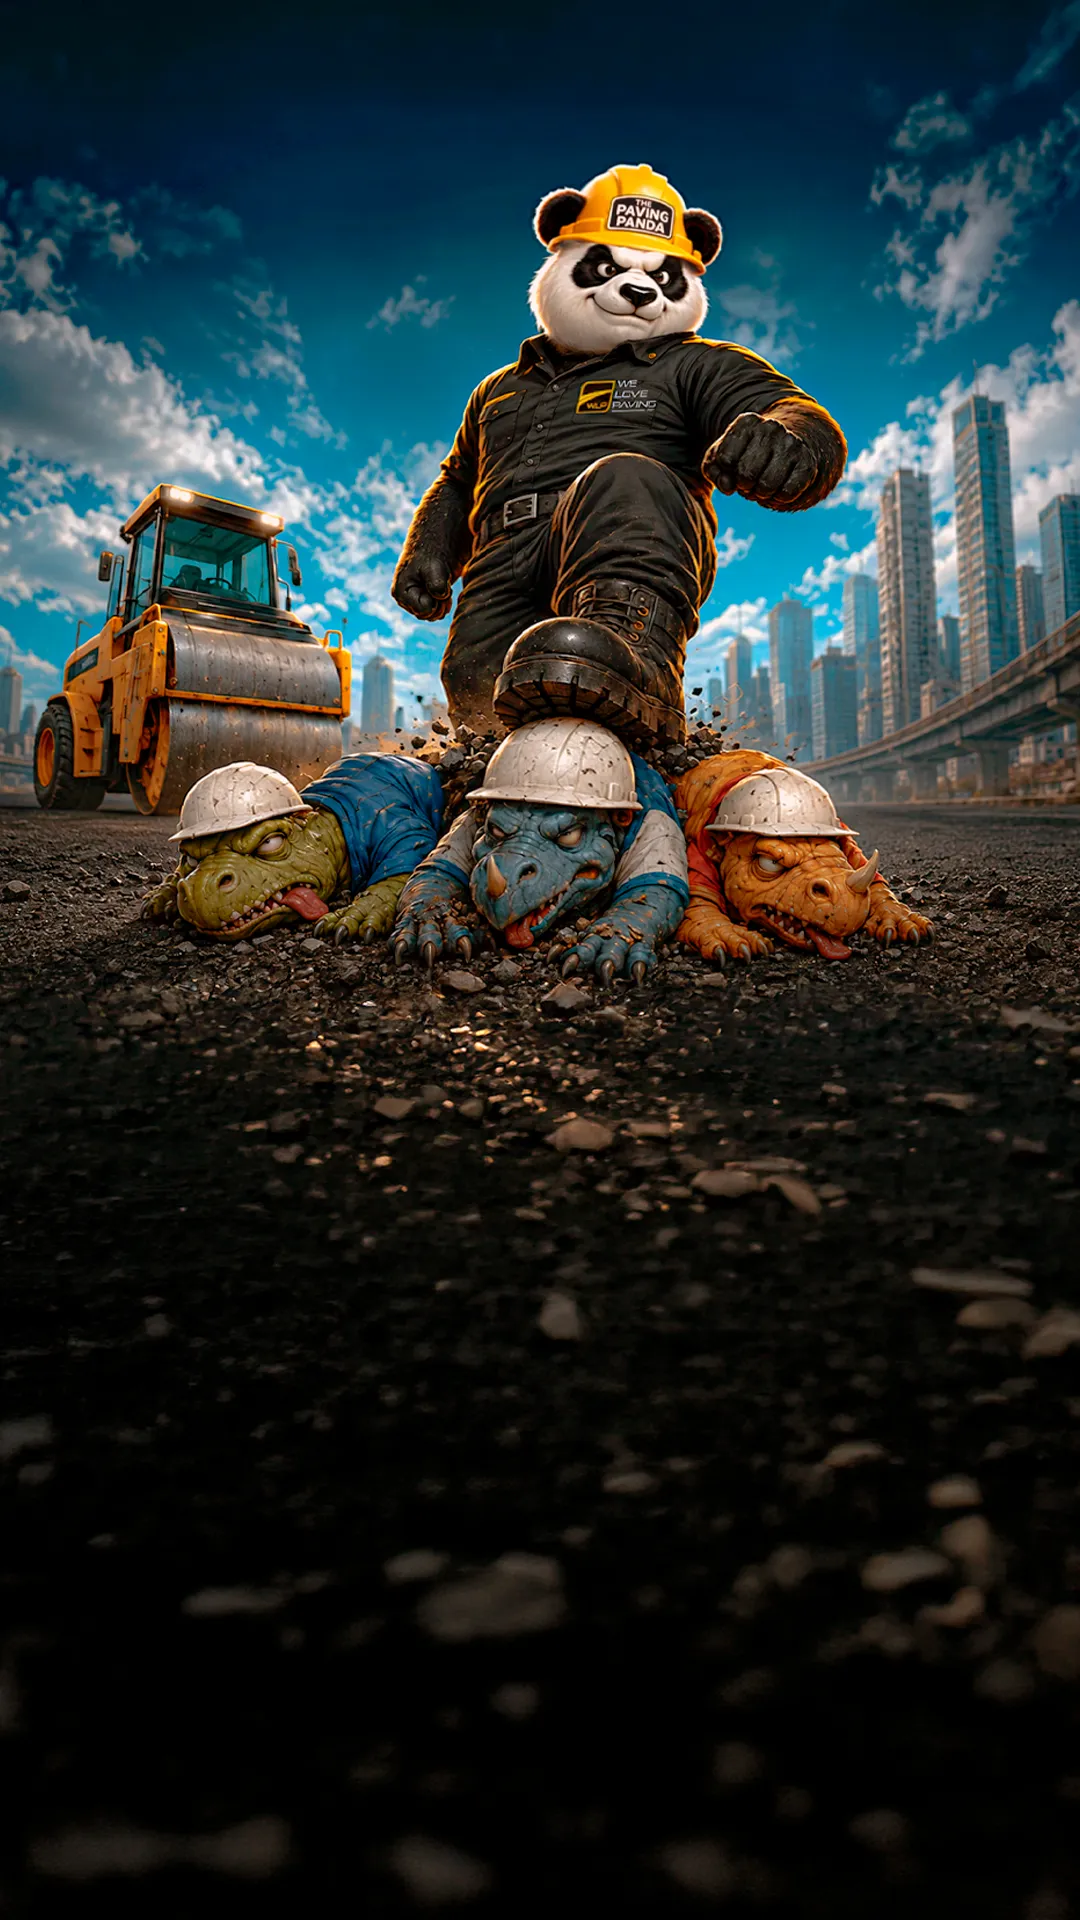
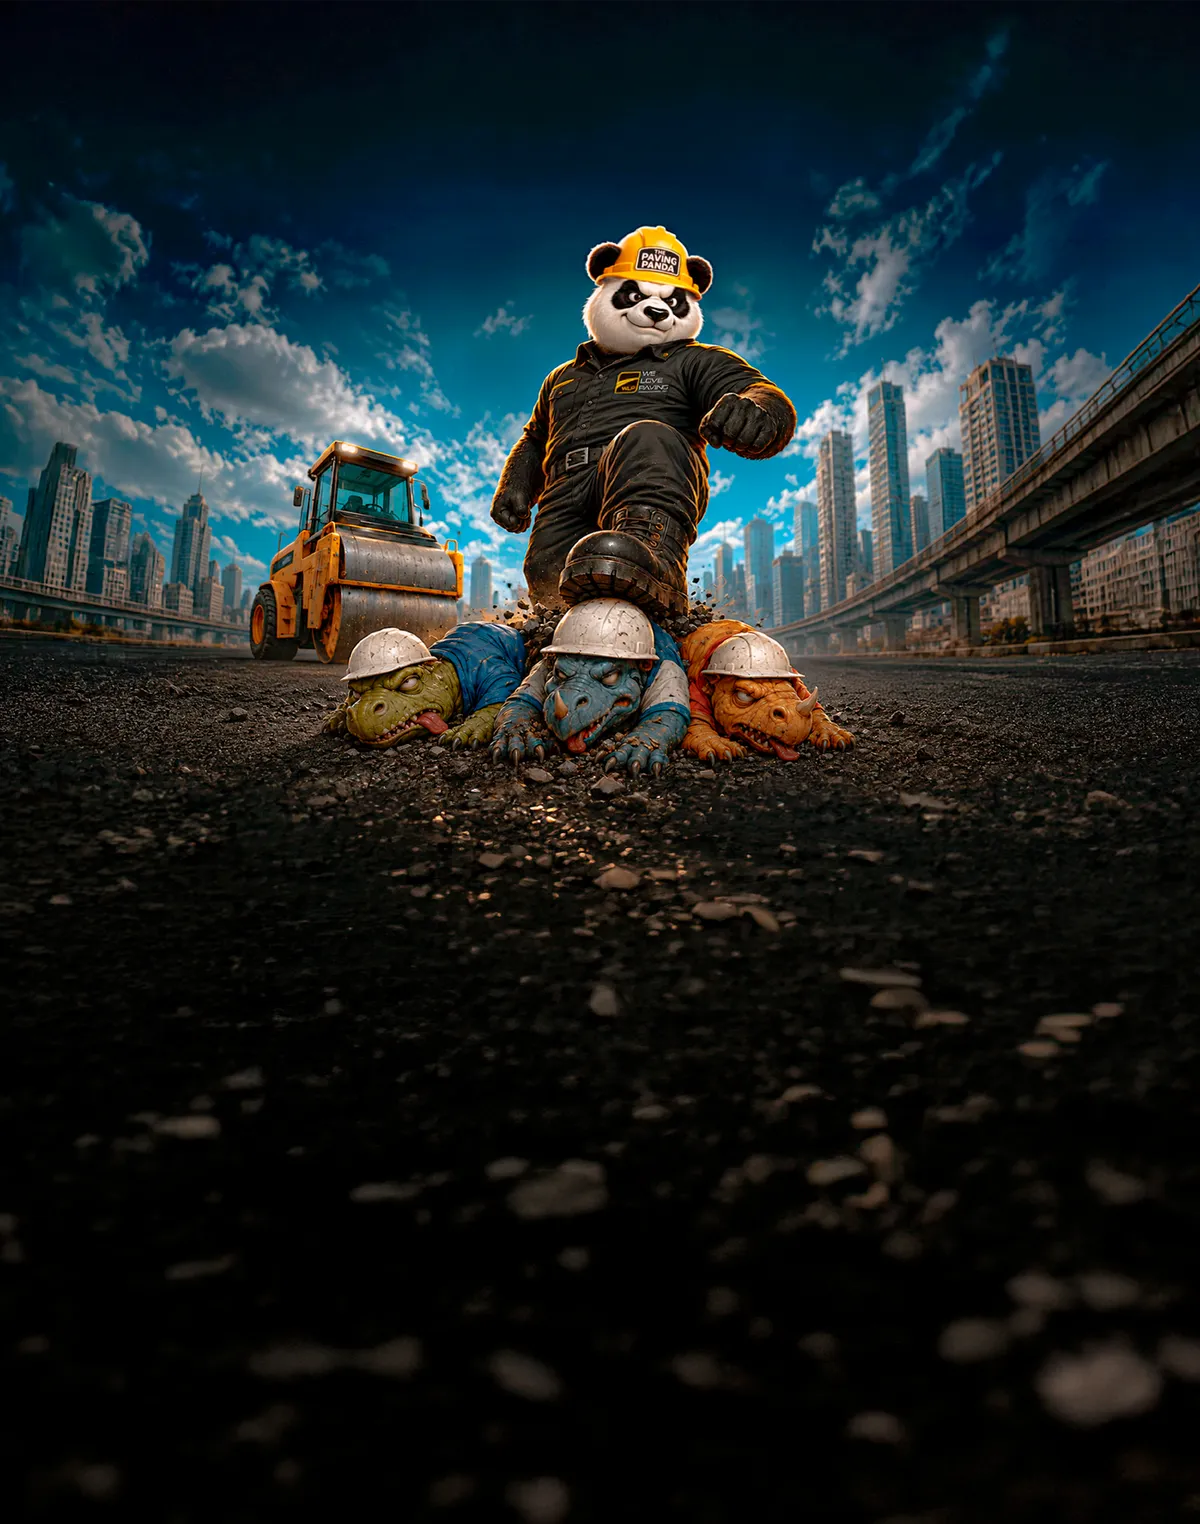
Mobile hero: new art, and let the scene scroll with the page
The new mobile art is 1785x2267, far wider than a phone. Filling the viewport
with it cropped ~137px off each side and blew the characters up, so it is sized
to the width instead: the whole scene fits, lands small and high, and the black
it fades into carries the copy.

The overlap Ernesto saw on the live site was not the framing, though. The scene
layer was fixed, so it stayed put while the copy climbed, and the headline rode
over the characters within ~125px of scroll whatever the image looked like. It
scrolls with the page now, so the spacing the layout gives them holds all the
way down, and the parallax is a capped nudge on top of that rather than the
whole movement.

diff --git a/competitors-landing.css b/competitors-landing.css
@@ -850,10 +850,14 @@ html.svc-open, html.svc-open body { overflow: hidden; }
 @media (max-width: 900px), (prefers-reduced-motion: reduce) {
   body { overflow-x: hidden; }
   .hero-zone { height: auto; display: block; }
-  .stage { position: static; flex: none; height: auto; overflow: visible; }
+  .stage { position: relative; flex: none; height: auto; overflow: visible; }
   .faq-form-grid { grid-template-columns: 1fr; }
   .footer-license { text-align: left; }
-  .scene-bg { position: fixed; inset: 0; }
+  /* Scrolls with the page instead of being pinned to the viewport. Fixed, the art
+     stayed put while the copy climbed, so the headline rode over the characters
+     within ~125px of scroll no matter how the image was framed. In flow, the
+     spacing the layout gives them holds all the way down. */
+  .scene-bg { position: absolute; inset: 0; }
   /* The mobile art puts the whole scene in its top half and fades to black below,
      so it is the layout: the art reads clean up top and the copy sits in the
      black, with no box or overlay of its own. Anchored to the top so the panda
@@ -875,20 +879,20 @@ html.svc-open, html.svc-open body { overflow: hidden; }
      with the panda's hard hat near its top edge, and a full-viewport layer put
      that hat under the header. Once the chrome scrolls away the strip it leaves
      is covered by the layer's own dark fill and, by then, P2's flat scrim. */
-  .scene-bg {
-    top: calc(var(--utility-h) + var(--header-h));
-    background: var(--bg-dark);
-  }
-  /* Pulled up so only a sliver of sky sits above the hard hat, the way the art is
-     composed. The layer clips the overshoot, and the black the image fades into
-     rises with it, right under the copy. */
+  /* Sampled from the art's own bottom edge (#010000), so where the image ends the
+     layer carries on with no band. */
+  .scene-bg { background: #010000; }
+  /* The art is 1785x2267, far wider than a phone. Filling the viewport with it
+     would crop ~137px off each side and blow the characters up; sizing it to the
+     width instead keeps the whole scene, lands it small and high, and leaves the
+     black it fades into for the copy to sit on. */
   .scene-bg img {
-    width: 100%; object-position: 50% 0%;
+    width: 100%; height: auto; object-fit: fill;
     transform-origin: 50% 0%;
     transform: translate3d(
       var(--px, 0px),
-      calc(var(--py, 0px) - 45px + var(--scene-y, 0px)),
-      0) scale(1.03);
+      calc(var(--py, 0px) + var(--scene-y, 0px)),
+      0) scale(1.02);
   }
   .h-track {
     position: static; display: block; overflow: visible; scroll-snap-type: none; height: auto;

diff --git a/competitors-landing.js b/competitors-landing.js
@@ -237,14 +237,19 @@ refreshLock();
    Drifting it up at a fraction of the scroll puts a real speed difference between
    the art and the text. It is clamped to the hero's height so the image settles
    instead of creeping through the rest of the page. */
-const SCENE_PARALLAX = 0.32;
+const SCENE_PARALLAX = 0.18;
+/* The art now scrolls with the page, so this is a nudge on top of that rather
+   than the whole movement: it only ever eats part of the gap the layout leaves
+   between the characters and the headline, never all of it. */
+const SCENE_MAX = 40;
 if (sceneImg && heroPanel) {
   let sceneRaf = 0;
   const paintSceneY = () => {
     if (isHorizontal()) { sceneImg.style.removeProperty('--scene-y'); return; }
     const limit = heroPanel.offsetHeight;
     const y = Math.min(Math.max(window.scrollY, 0), limit);
-    sceneImg.style.setProperty('--scene-y', (-y * SCENE_PARALLAX).toFixed(1) + 'px');
+    const drift = Math.min(y * SCENE_PARALLAX, SCENE_MAX);
+    sceneImg.style.setProperty('--scene-y', (-drift).toFixed(1) + 'px');
   };
   window.addEventListener('scroll', () => {
     if (sceneRaf) return;